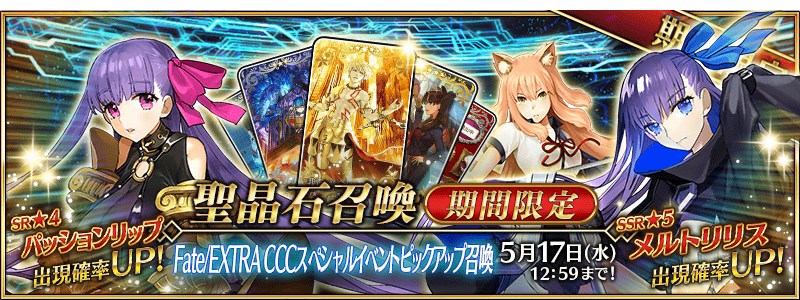
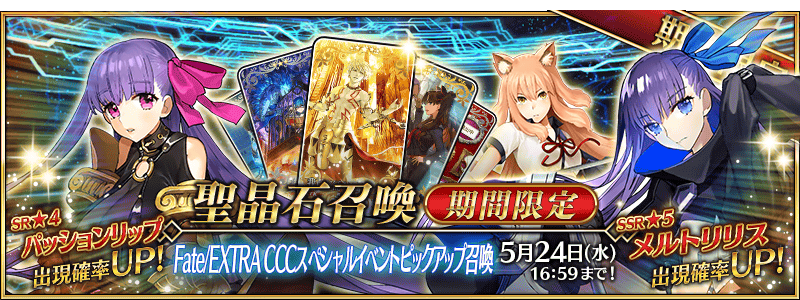
170501-2

diff --git a/event_extraccc.html b/event_extraccc.html
@@ -66,7 +66,9 @@
 <!-- block -->
 <p style="margin-bottom: 5px;"><img alt="" src="common/images/2017/extraccc_full_d59ql/midashi_01.png" id="midashi_01"/></p>
 <p><span class="diamond">◆</span><span class="strong">活動舉辦期間</span><span class="diamond">◆</span><br/>
-<span class="em01">2017年5月1日(一) 18:00～5月17日(三) 11:59(預定)</span></p>
+<span class="em01">2017年5月1日(一) 19:00～<span class="notice">5月24日(三) 15:59<br/>
+※延長舉辦期間。</span><br/>
+※(5/1修正)</span></p>
 <p><span class="diamond">◆</span><span class="strong">活動概要</span><span class="diamond">◆</span><br/>
 <span class="em01">舉辦期間限定Fate/EXTRA CCC×Fate/Grand Order GW・EX特別活動「BB醬的逆襲/在電子之海相會吧！」！<br/>
 活動限定Servant「<span class="notice">★4(SR)BB</span>」登場！<br/>
@@ -101,7 +103,7 @@
 </tr>
 <tr>
 <td bgcolor="#ECF2F3">第一幕</td>
-<td bgcolor="#ECF2F3">5月1日(一) 18:00～</td>
+<td bgcolor="#ECF2F3">5月1日(一) <s>18:00</s>19:00～</td>
 </tr>
 <tr>
 <td>第二幕</td>
@@ -229,7 +231,7 @@ BB拉霸會根據隨機連線的圖案，<span class="notice">在戰鬥賦予各
 <span class="em01">・伊莉莎白・巴托里(Lancer)<br/>
 ・羅賓漢</span><br/>
 <span class="diamond">◆</span><span class="strong">翻新時間</span><span class="diamond">◆</span><br/>
-<span class="em01">2017年5月1日(一)18:00～</span><br/>
+<span class="em01">2017年5月1日(一)<s>18:00</s>19:00～</span><br/>
 <img alt="" src="common/images/2017/extraccc_full_d59ql/info_ss_03.png"/></p>
 <!-- block -->
 <p style="margin-bottom: 5px;"><img alt="" src="common/images/2017/extraccc_full_d59ql/midashi_09.png" id="midashi_09"/></p>
@@ -249,7 +251,8 @@ BB拉霸會根據隨機連線的圖案，<span class="notice">在戰鬥賦予各
 <!-- block -->
 <p style="margin-bottom: 5px;"><img alt="" src="common/images/2017/extraccc_full_d59ql/midashi_10.png" id="midashi_10"/></p>
 <p><span class="diamond">◆</span><span class="strong">交換方法</span><span class="diamond">◆</span><br/>
-<span class="em01"><span class="notice">交換期間:2017年5月1日(一) 18:00～5月24日(三) 11:59</span><br/>
+<span class="em01"><span class="notice">交換期間:2017年5月1日(一) 19:00～5月31日(三) 13:59</span><br/>
+※5/1(一)修正<br/>
 ※交換期間結束後「櫻花籌碼」會消失。</span></p>
 <p class="em01">自達文西工房内的「活動道具交換」，可用活動専用道具交換以下的道具。</p>
 <p><span class="diamond">◆</span><span class="strong">能用櫻花籌碼(サクラチップ)交換的道具</span><span class="diamond">◆</span></p>
@@ -314,7 +317,9 @@ BB拉霸會根據隨機連線的圖案，<span class="notice">在戰鬥賦予各
 <p style="margin-bottom: 5px;"><img alt="" src="common/images/2017/extraccc_full_d59ql/midashi_12.png" style="margin-bottom: -10px;" id="midashi_12"/><br/>
 <img alt="" src="common/images/2017/extraccc_full_d59ql/summon_banner.png"/></p>
 <p><span class="diamond">◆</span><span class="strong">「Fate/EXTRA CCC特別活動Pick&#32;Up召喚」期間</span><span class="diamond">◆</span><br/>
-<span class="em01">期間：2017年5月1日(一) 18:00～5月17日(三) 11:59</span></p>
+<span class="em01">期間：2017年5月1日(一) 19:00～<span class="notice">5月24日(三) 15:59<br/>
+※延長舉辦期間。</span><br/>
+※(5/1修正)</span></p>
 <p class="em01">以期間限定舉辦「Fate/EXTRA CCC特別活動Pick&#32;Up召喚」！<br/>
 初登場職階「Alter Ego」的Servant「<span class="notice">★5(SSR)Meltlilith</span>」「<span class="notice">★4(SR)Passionlip</span>」以期間限定登場！<br/>
 另外新Servant「<span class="notice">★4(SR)鈴鹿御前</span>」新登場！<br/>
